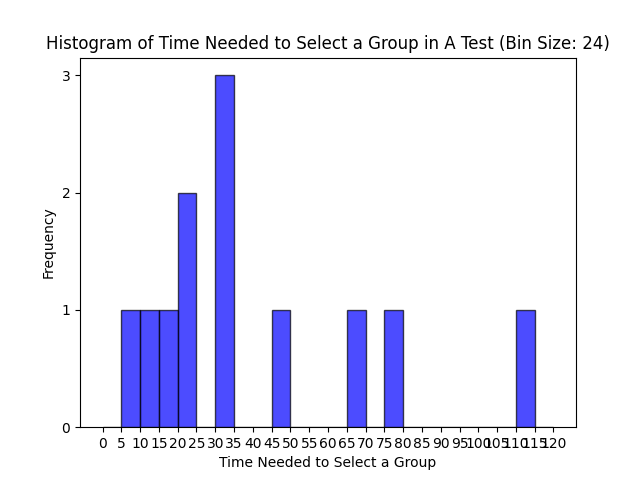
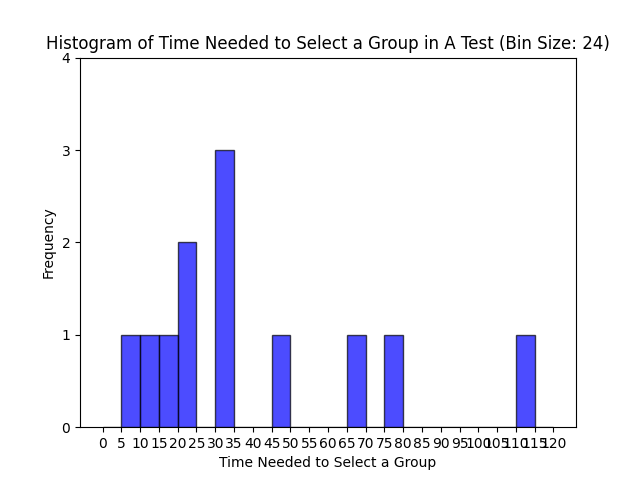
test

diff --git a/code/study_analysis/plots.py b/code/study_analysis/plots.py
@@ -20,7 +20,7 @@ number_of_bins = 20
 # A
 plt.hist(df['sus_a'], range=(40,100), bins=number_of_bins, color='blue', edgecolor='black', alpha=0.7)
 plt.xticks(np.arange(40,101,5))
-plt.yticks(np.arange(0, 4, 1)) 
+plt.yticks(np.arange(0, 5, 1)) 
 plt.xlabel('SUS Value')
 plt.ylabel('Frequency')
 plt.title(f'Histogram of SUS Values of A (Bin Size: {number_of_bins})')
@@ -31,7 +31,7 @@ plt.close()
 # B
 plt.hist(df['sus_b'], range=(40,100), bins=number_of_bins, color='red', edgecolor='black', alpha=0.7)
 plt.xticks(np.arange(40,101,5))
-plt.yticks(np.arange(0, 4, 1)) 
+plt.yticks(np.arange(0, 5, 1)) 
 plt.xlabel('SUS Value')
 plt.ylabel('Frequency')
 plt.title(f'Histogram of SUS Values of B (Bin Size: {number_of_bins})')
@@ -57,7 +57,7 @@ number_of_bins = 24
 # A
 plt.hist(df['time_a'], range=(0,120), bins=number_of_bins, color='blue', edgecolor='black', alpha=0.7)
 plt.xticks(np.arange(0,121,5))
-plt.yticks(np.arange(0, 4, 1)) 
+plt.yticks(np.arange(0, 5, 1)) 
 plt.xlabel('Time Needed to Select a Group')
 plt.ylabel('Frequency')
 plt.title(f'Histogram of Time Needed to Select a Group in A Test (Bin Size: {number_of_bins})')
@@ -68,7 +68,7 @@ plt.close()
 # B
 plt.hist(df['time_b'], range=(0,120), bins=number_of_bins, color='blue', edgecolor='black', alpha=0.7)
 plt.xticks(np.arange(0,121,5))
-plt.yticks(np.arange(0, 4, 1)) 
+plt.yticks(np.arange(0, 5, 1)) 
 plt.xlabel('Time Needed to Select a Group')
 plt.ylabel('Frequency')
 plt.title(f'Histogram of Time Needed to Select a Group in B Test (Bin Size: {number_of_bins})')
@@ -111,7 +111,7 @@ with open(path_to_analysis + '/results.md', 'w') as file:
     file.write('### Result of Shapiro-Wilke Test B\n')
     file.write('p-value: ' + str(round(shapiro_res_b[1],3)) + '\n')
     if (shapiro_res_b[1] > 0.05): file.write('-> We can assume a normal distribution.\n') 
-    else: file.write('-> We cannot assume a normal distribution.')
+    else: file.write('-> We cannot assume a normal distribution.\n')
 
 
     file.write('### Distribution of Time Needed to Select a Group in A Test\n')
